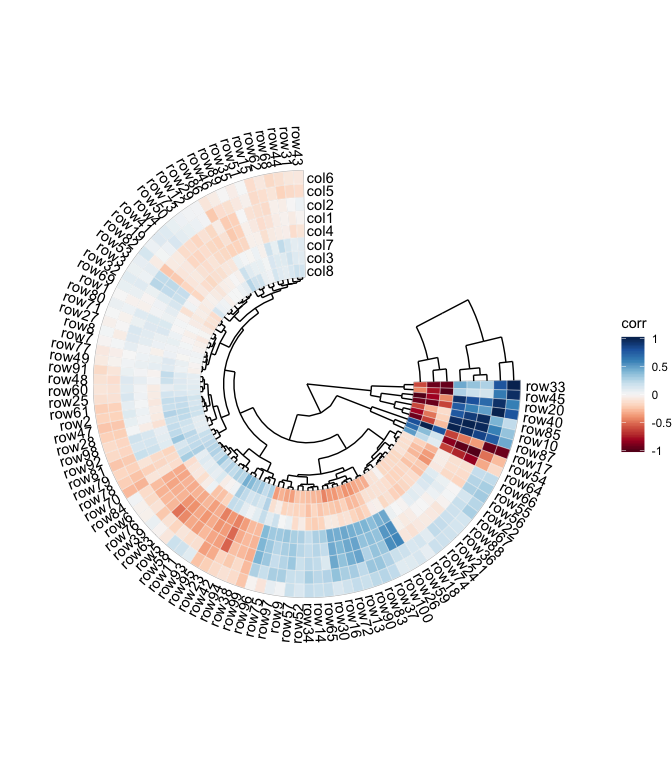
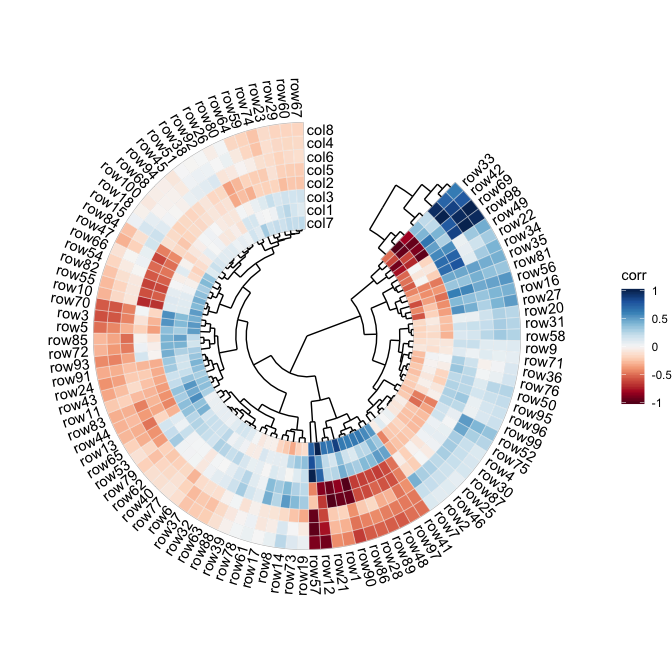
updates readme

diff --git a/readme.md b/readme.md
@@ -59,7 +59,6 @@ mantel <- mantel_test(varespec, varechem,
 quickcor(varechem, type = "upper") +
   geom_square() +
   anno_link(aes(colour = pd, size = rd), data = mantel) +
-  anno_link_label(geom = "label") +
   scale_size_manual(values = c(0.5, 1, 2)) +
   scale_colour_manual(values = c("#D95F02", "#1B9E77", "#A2A2A288")) +
   guides(size = guide_legend(title = "Mantel's r",
@@ -77,9 +76,12 @@ quickcor(varechem, type = "upper") +
 
 ``` r
 rand_correlate(100, 8) %>% ## require ambient packages
-  quickcor(circular = TRUE, cluster = TRUE) +
+  quickcor(circular = TRUE, cluster = TRUE, open = 45) +
   geom_colour(colour = "white", size = 0.125) +
-  anno_tree()
+  anno_row_tree() +
+  anno_col_tree() +
+  set_p_xaxis() +
+  set_p_yaxis()
 ```
 
 <img src="man/figures/README-unnamed-chunk-2-1.png" width="100%" style="display: block; margin: auto;" />
@@ -87,14 +89,23 @@ rand_correlate(100, 8) %>% ## require ambient packages
 ## General heatmap
 
 ``` r
-cols <- RColorBrewer::brewer.pal(4, "Set2")
-rand_dataset(vars = 8) %>% ## require ambient packages
-  gcor_tbl("var", cluster = TRUE) %>% 
-  quickcor(circular = TRUE, cluster = TRUE, open = 30, 
-           bcols = list(row.bcols = cols)) +
-  geom_colour(aes(fill = var), colour = NA) +
-  anno_tree() +
-  scale_fill_viridis_c()
+dd <- rand_dataset(10, 120) %>% 
+  gcor_tbl(cluster = TRUE)
+dd1 <- rand_dataset(3, 120, col.names = LETTERS[1:3]) %>% 
+  gcor_tbl(cluster = TRUE, "LETTERS")
+dd2 <- rand_dataset(10, 3, row.names = letters[1:3]) %>% 
+  gcor_tbl(cluster = TRUE, "letters")
+quickcor(dd, inner = 1.2, outer = 0.8, open = 60, circular = TRUE) +
+  geom_colour(aes(fill = value), colour = NA) +
+  anno_row_heat(dd1, aes(fill0 = LETTERS), width = 1.2) +
+  anno_col_heat(dd2, aes(colour = letters), height = 1.2, geom = "point") +
+  anno_row_tree(bcols = c("#E41A1C", "#377EB8", "#4DAF4A")) +
+  anno_col_tree() +
+  set_p_xaxis(size = 2.8) +
+  set_p_yaxis(size = 2.8) +
+  scale_fill_distiller() +
+  scale_fill0_gradientn(colours = red_blue()) +
+  scale_colour_viridis_b()
 ```
 
 <img src="man/figures/README-unnamed-chunk-3-1.png" width="100%" style="display: block; margin: auto;" />
@@ -105,7 +116,7 @@ To cite the `ggcor` package in publications
 use:
 
 ``` 
-  Houyun Huang, Lei Zhou, Jian Chen and Taiyun Wei(2020). ggcor: Extended tools for correlation analysis and visualization. R package version 0.9.6.
+  Houyun Huang, Lei Zhou, Jian Chen and Taiyun Wei(2020). ggcor: Extended tools for correlation analysis and visualization. R package version 0.9.7.
 ```
 
 A BibTeX entry for LaTeX users is
@@ -116,7 +127,7 @@ A BibTeX entry for LaTeX users is
     title  = {ggcor: Extended tools for correlation analysis and visualization},
     author = {Houyun Huang, Lei Zhou, Jian Chen and Taiyun Wei},
     year   = {2020},
-    note   = {R package version 0.9.6},
+    note   = {R package version 0.9.7},
     url    = {https://github.com/houyunhuang/ggcor},
   }
 ```
